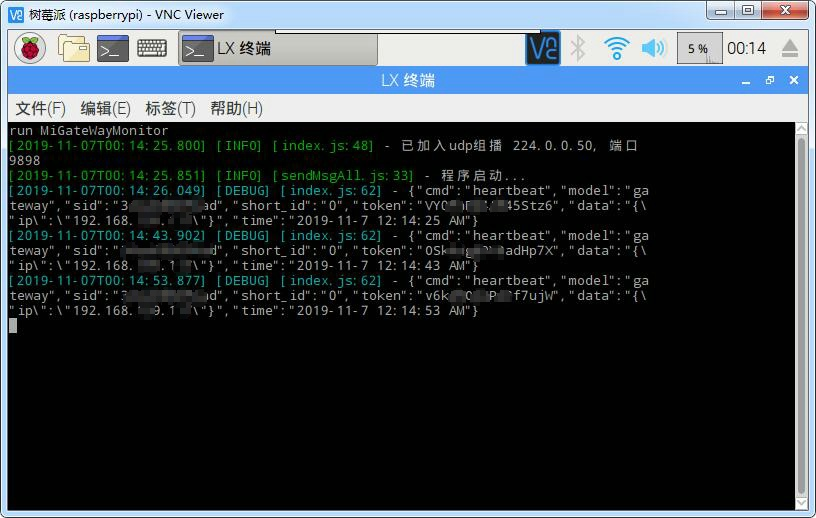
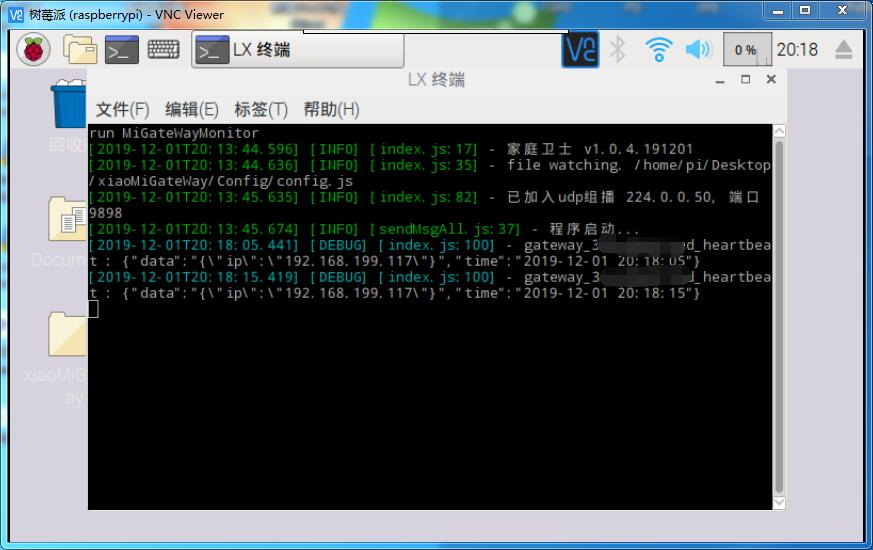
更改文档信息

diff --git a/README.md b/README.md
@@ -3,6 +3,8 @@ Mi GateWay Monitor(小米多功能网关监控系统) - https://blog.csdn.net/it
 
 * NodeJS版本
 
+Version : 1.0.4.191201
+
 ```
 cd src\MiGateWayMonitorJS
 
